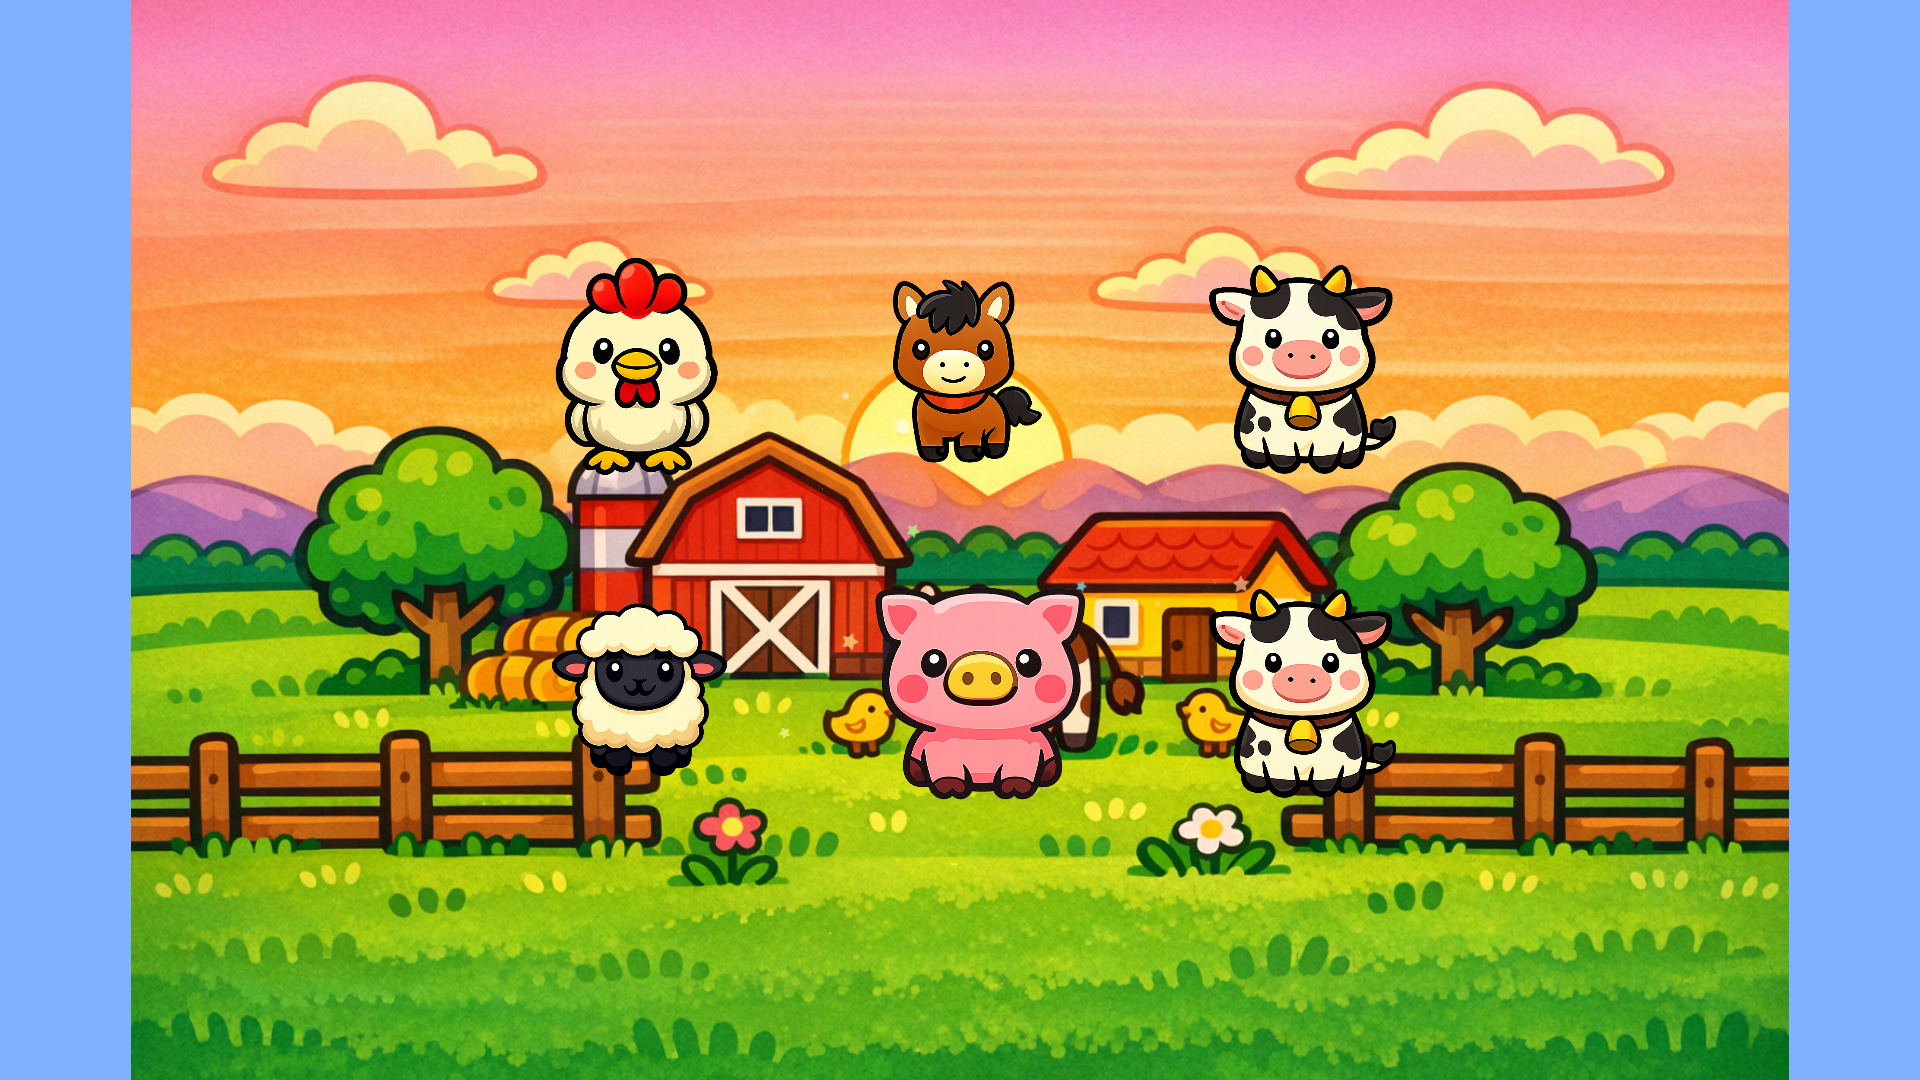
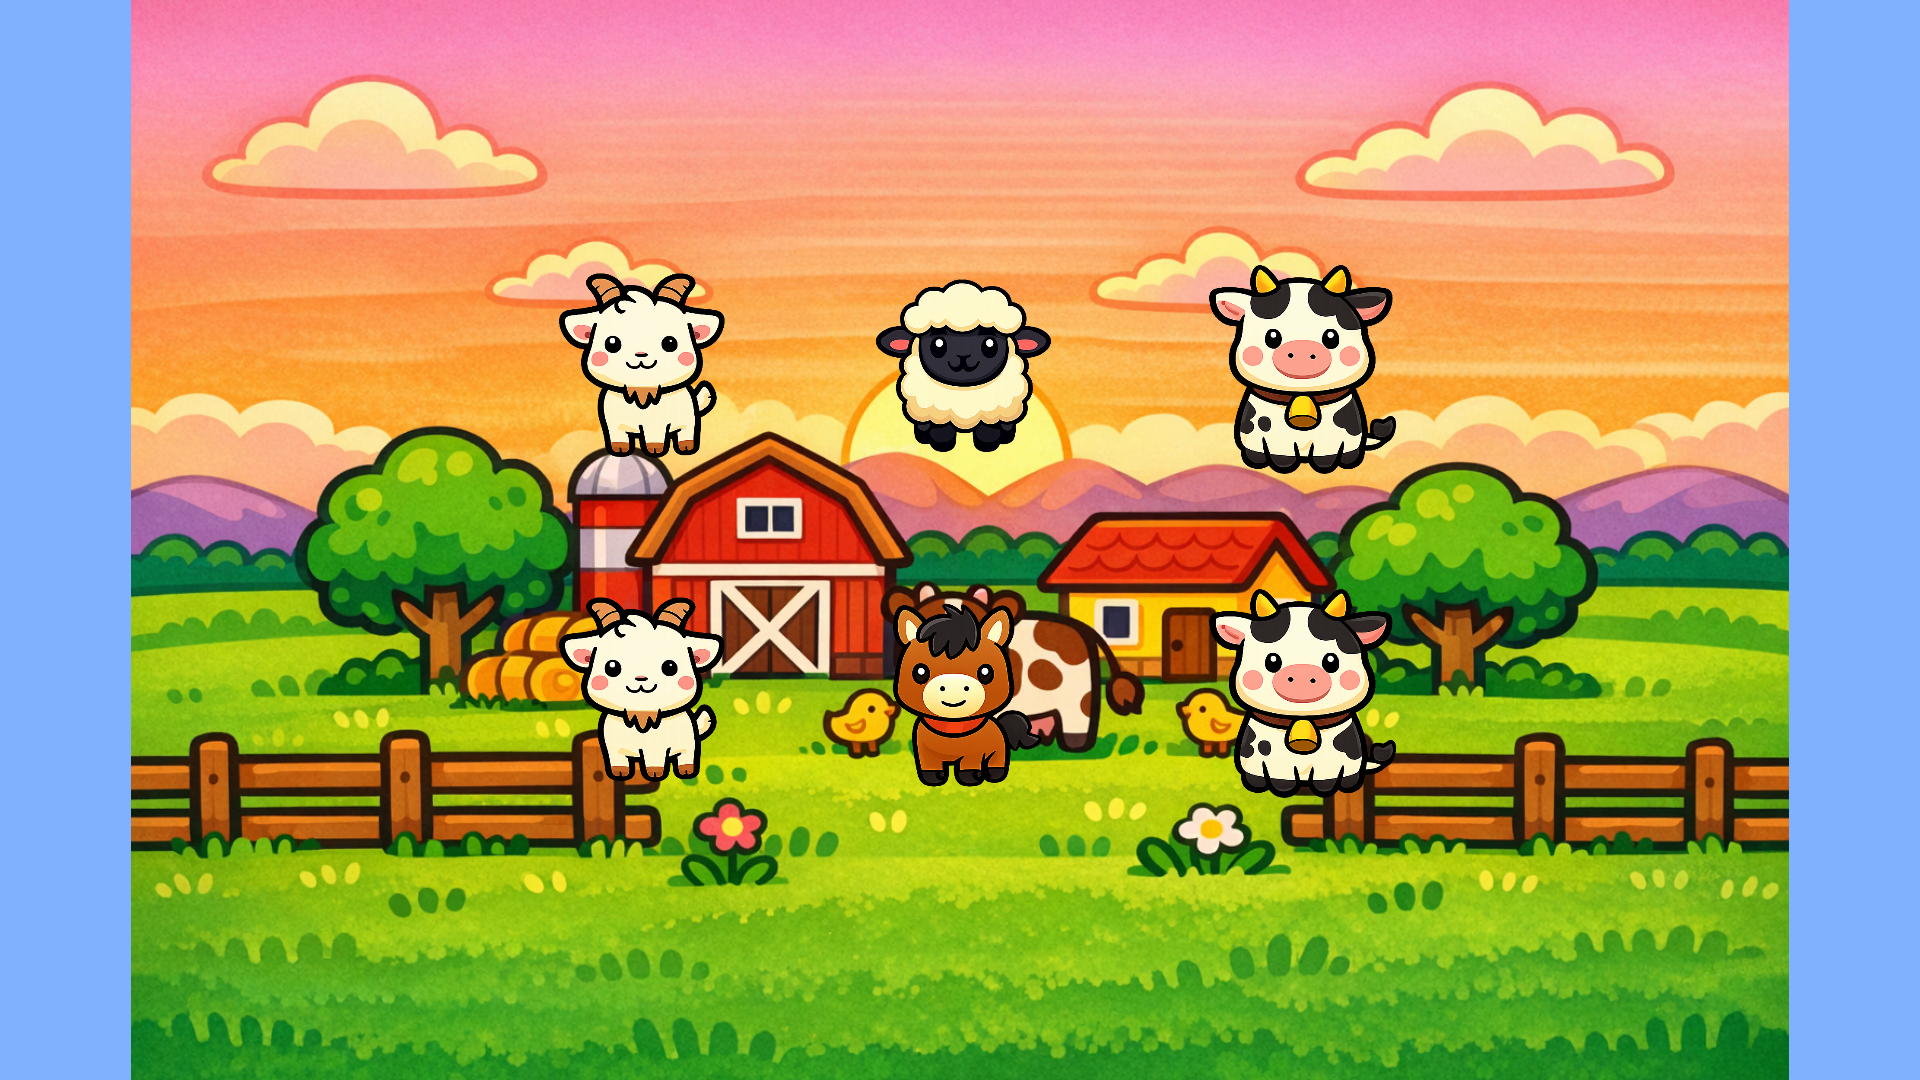
動物のリアクション後の動作を追加し、削除時に新しい動物を補充する機能を実装

diff --git a/Assets/Games/14_AnimalVoice/Scripts/AnimalSpawner.cs b/Assets/Games/14_AnimalVoice/Scripts/AnimalSpawner.cs
@@ -256,9 +256,49 @@ public class AnimalSpawner : MonoBehaviour
             scale = data.isRare ? rareAnimalScale : animalBaseScale;
         }
         controller.Initialize(data, position, heartParticlePrefab, noteParticlePrefab, scale, colliderRadius);
-        controller.OnDestroyed += () => activeAnimals.Remove(controller);
+        
+        // 削除時にリストから除外し、新しい動物を補充
+        controller.OnDestroyed += () =>
+        {
+            activeAnimals.Remove(controller);
+            RespawnAnimal(position, scaleOverride);
+        };
         
         activeAnimals.Add(controller);
+    }
+    
+    /// <summary>
+    /// 削除された動物を補充（同じ時間帯の別の動物）
+    /// </summary>
+    private void RespawnAnimal(Vector3 position, float scaleOverride)
+    {
+        // 時間帯切り替え中は補充しない
+        if (activeAnimals.Count == 0) return;
+        
+        // 現在の時間帯の動物リストを取得
+        List<AnimalVoiceData> availableAnimals = GetAnimalsForTimeOfDay(currentTimeOfDay);
+        
+        if (availableAnimals == null || availableAnimals.Count == 0)
+        {
+            Debug.LogWarning($"[AnimalSpawner] {currentTimeOfDay}の動物データがありません");
+            return;
+        }
+        
+        // レア動物の判定
+        bool spawnRare = Random.value < rareSpawnChance && rareAnimals != null && rareAnimals.Count > 0;
+        
+        AnimalVoiceData dataToSpawn;
+        if (spawnRare)
+        {
+            dataToSpawn = rareAnimals[Random.Range(0, rareAnimals.Count)];
+        }
+        else
+        {
+            dataToSpawn = availableAnimals[Random.Range(0, availableAnimals.Count)];
+        }
+        
+        // 同じ位置に新しい動物を生成
+        SpawnAnimal(dataToSpawn, position, scaleOverride);
     }
     
     /// <summary>
@@ -266,14 +306,18 @@ public class AnimalSpawner : MonoBehaviour
     /// </summary>
     public void ClearAllAnimals()
     {
-        foreach (var animal in activeAnimals)
+        // OnDestroyedイベントで補充されないように、先にリストをクリア
+        var animalsToRemove = new List<AnimalController>(activeAnimals);
+        activeAnimals.Clear();
+        
+        foreach (var animal in animalsToRemove)
         {
             if (animal != null)
             {
+                animal.OnDestroyed = null; // 時間帯切替時は補充を抑制
                 animal.FadeOutAndDestroy();
             }
         }
-        activeAnimals.Clear();
     }
     
     /// <summary>

diff --git a/Assets/Games/14_AnimalVoice/Scripts/AnimalController.cs b/Assets/Games/14_AnimalVoice/Scripts/AnimalController.cs
@@ -233,20 +233,11 @@ public class AnimalController : MonoBehaviour
             PlayRareEffect();
         }
         
-        // 元に戻す
+        // リアクション後にフェードアウトして削除
         float duration = animalData.reactionDuration;
         DOVirtual.DelayedCall(duration, () =>
         {
-            // 元のスプライトに戻す
-            if (animalData.normalSprite != null)
-            {
-                spriteRenderer.sprite = animalData.normalSprite;
-            }
-            
-            // スケールを戻す
-            transform.DOScale(originalScale, 0.2f).SetEase(Ease.OutQuad);
-            
-            isReacting = false;
+            FadeOutAndDestroy();
         });
     }
     

diff --git a/Assets/Games/14_AnimalVoice/AnimalVoice_GameDoc.md b/Assets/Games/14_AnimalVoice/AnimalVoice_GameDoc.md
@@ -87,6 +87,7 @@ Assets/Games/14_AnimalVoice/
 
 - **マルチタッチ対応**: `Touchscreen.current.touches` でループ + エディタ用にMouse入力も対応
 - **タップ時の動作**: DOTweenでスケールアップ → reactionSpriteに切替 → パーティクル(ハートor音符) → 鳴き声再生
+- **リアクション後の動作**: フェードアウトして削除 → 新しい動物が補充される
 - **レア動物の特別演出**: カメラシェイク(0.3秒) + 虹色変化(5色×0.1秒)
 - **リアクション時間**: 通常0.8秒、レア1.2秒
 
@@ -94,8 +95,10 @@ Assets/Games/14_AnimalVoice/
 
 - 4つのリスト（朝・昼・夜・レア）で動物データを管理
 - 時間帯変更時: 既存動物をフェードアウト → 新しい時間帯の動物をスポーン
-- **SpawnPointあり**: SpawnPointの位置に固定配置
-- **SpawnPointなし**: ランダム位置（最大30回試行で既存動物との距離を確保）
+- **動物タップ後の補充**: 動物が削除されると、同じ位置に現在の時間帯から別の動物を再スポーン（10%でレア動物）
+- **SpawnPointあり**: SpawnPointの位置に固定配置 → タップ後も同じ位置に補充
+- **SpawnPointなし**: ランダム位置（最大30回試行で既存動物との距離を確保）→ タップ後も同じ位置に補充
+- **重要**: 朝は朝の動物のみ、昼は昼の動物のみ、夜は夜の動物のみで循環（時間帯をまたいだ混在はしない）
 
 ### AnimalSpawnPoint.cs — Editモード配置
 
